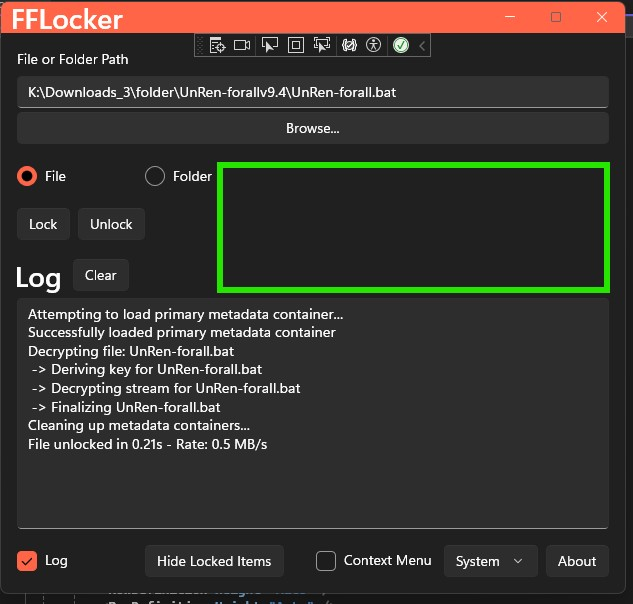
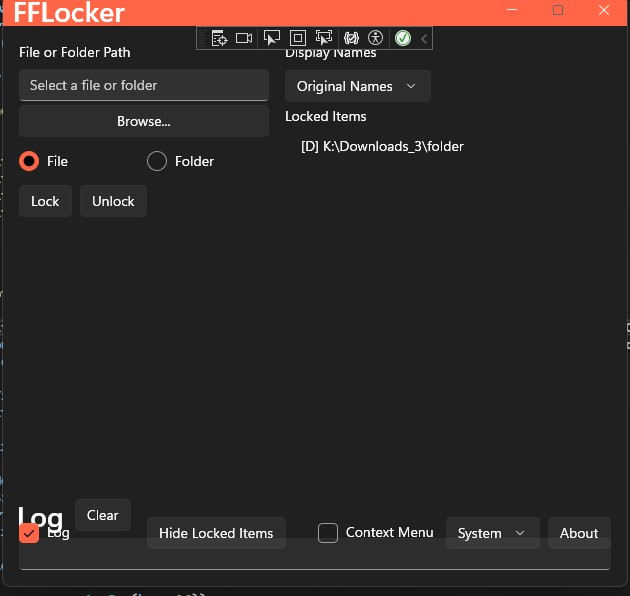
+++

diff --git a/FFLocker/MainWindow.xaml b/FFLocker/MainWindow.xaml
@@ -29,72 +29,59 @@
         </Grid>
 
         <Grid Grid.Row="1" Margin="16">
+            <Grid.ColumnDefinitions>
+                <ColumnDefinition Width="Auto" />
+                <ColumnDefinition Width="*" />
+            </Grid.ColumnDefinitions>
             <Grid.RowDefinitions>
-                <RowDefinition Height="Auto" />
-                <RowDefinition Height="Auto" />
-                <RowDefinition Height="Auto" />
                 <RowDefinition Height="*" />
                 <RowDefinition Height="Auto" />
             </Grid.RowDefinitions>
 
-            <StackPanel Grid.Row="0" Margin="0,0,0,8">
-                <TextBox
-                    x:Name="PathTextBox"
-                    Header="File or Folder Path"
-                    IsReadOnly="True"
-                    PlaceholderText="Select a file or folder" />
-                <Button
-                    x:Name="BrowseButton"
-                    Margin="0,4,0,0"
-                    HorizontalAlignment="Stretch"
-                    Click="BrowseButton_Click"
-                    Content="Browse..." />
-            </StackPanel>
-
-            <StackPanel Grid.Row="1" Margin="0,8,0,8" Orientation="Horizontal" Spacing="4">
-                <RadioButton
-                    x:Name="FileRadioButton"
-                    Content="File"
-                    GroupName="PathType"
-                    IsChecked="True" />
-                <RadioButton
-                    x:Name="FolderRadioButton"
-                    Content="Folder"
-                    GroupName="PathType" />
-            </StackPanel>
-
-            <StackPanel
-                Grid.Row="2"
-                Margin="0,8"
-                Orientation="Horizontal"
-                Spacing="8">
-                <Button
-                    x:Name="LockButton"
-                    HorizontalAlignment="Stretch"
-                    Click="LockButton_Click"
-                    Content="Lock" />
-                <Button
-                    x:Name="UnlockButton"
-                    HorizontalAlignment="Stretch"
-                    Click="UnlockButton_Click"
-                    Content="Unlock" />
-            </StackPanel>
-
-            <Grid Grid.Row="3" Margin="0,8">
-                <StackPanel x:Name="LockedItemsPanel" Visibility="Collapsed">
-                    <ComboBox x:Name="LockedItemsViewComboBox"
-                              Header="Display Names"
-                              SelectedIndex="0"
-                              SelectionChanged="LockedItemsViewComboBox_SelectionChanged"
-                              Margin="0,0,0,4">
-                        <ComboBoxItem Content="Original Names" />
-                        <ComboBoxItem Content="Fake Names" />
-                    </ComboBox>
-                    <ListView
-                        x:Name="LockedItemsListView"
-                        Header="Locked Items" />
+            <StackPanel Grid.Row="0" Grid.Column="0" Margin="0,0,16,0" MinWidth="300">
+                <StackPanel>
+                    <TextBox
+                        x:Name="PathTextBox"
+                        Header="File or Folder Path"
+                        IsReadOnly="True"
+                        PlaceholderText="Select a file or folder"/>
+                    <Button
+                        x:Name="BrowseButton"
+                        Margin="0,4,0,0"
+                        HorizontalAlignment="Stretch"
+                        Click="BrowseButton_Click"
+                        Content="Browse..." />
                 </StackPanel>
-                <Grid x:Name="LogGrid" Visibility="Collapsed">
+
+                <StackPanel Margin="0,8,0,8" Orientation="Horizontal" HorizontalAlignment="Left">
+                    <RadioButton
+                        x:Name="FileRadioButton"
+                        Content="File"
+                        GroupName="PathType"
+                        IsChecked="True" />
+                    <RadioButton
+                        x:Name="FolderRadioButton"
+                        Margin="8,0,0,0"
+                        Content="Folder"
+                        GroupName="PathType" />
+                </StackPanel>
+
+                <StackPanel
+                    Orientation="Horizontal"
+                    Spacing="8">
+                    <Button
+                        x:Name="LockButton"
+                        HorizontalAlignment="Stretch"
+                        Click="LockButton_Click"
+                        Content="Lock" />
+                    <Button
+                        x:Name="UnlockButton"
+                        HorizontalAlignment="Stretch"
+                        Click="UnlockButton_Click"
+                        Content="Unlock" />
+                </StackPanel>
+
+                <Grid x:Name="LogGrid" Visibility="Collapsed" Margin="0,16,0,0">
                     <Grid.RowDefinitions>
                         <RowDefinition Height="Auto" />
                         <RowDefinition Height="*" />
@@ -109,16 +96,30 @@
                             Click="ClearLogButton_Click"
                             Content="Clear" />
                     </StackPanel>
-                    <TextBox
-                        x:Name="LogTextBox"
-                        Grid.Row="1"
-                        AcceptsReturn="True"
-                        IsReadOnly="True"
-                        ScrollViewer.VerticalScrollBarVisibility="Auto" />
+                    <ScrollViewer Grid.Row="1" VerticalScrollBarVisibility="Auto" MaxHeight="250">
+                        <TextBox
+                            x:Name="LogTextBox"
+                            AcceptsReturn="True"
+                            IsReadOnly="True" />
+                    </ScrollViewer>
                 </Grid>
-            </Grid>
+            </StackPanel>
 
-            <Grid Grid.Row="4" Margin="0,8,0,0">
+            <StackPanel Grid.Row="0" Grid.Column="1" x:Name="LockedItemsPanel" Visibility="Collapsed">
+                <ComboBox x:Name="LockedItemsViewComboBox"
+                          Header="Display Names"
+                          SelectedIndex="0"
+                          SelectionChanged="LockedItemsViewComboBox_SelectionChanged"
+                          Margin="0,0,0,4">
+                    <ComboBoxItem Content="Original Names" />
+                    <ComboBoxItem Content="Fake Names" />
+                </ComboBox>
+                <ListView
+                    x:Name="LockedItemsListView"
+                    Header="Locked Items" />
+            </StackPanel>
+
+            <Grid Grid.Row="1" Grid.ColumnSpan="2" Margin="0,8,0,0">
                 <Grid.ColumnDefinitions>
                     <ColumnDefinition Width="*" />
                     <ColumnDefinition Width="Auto" />
